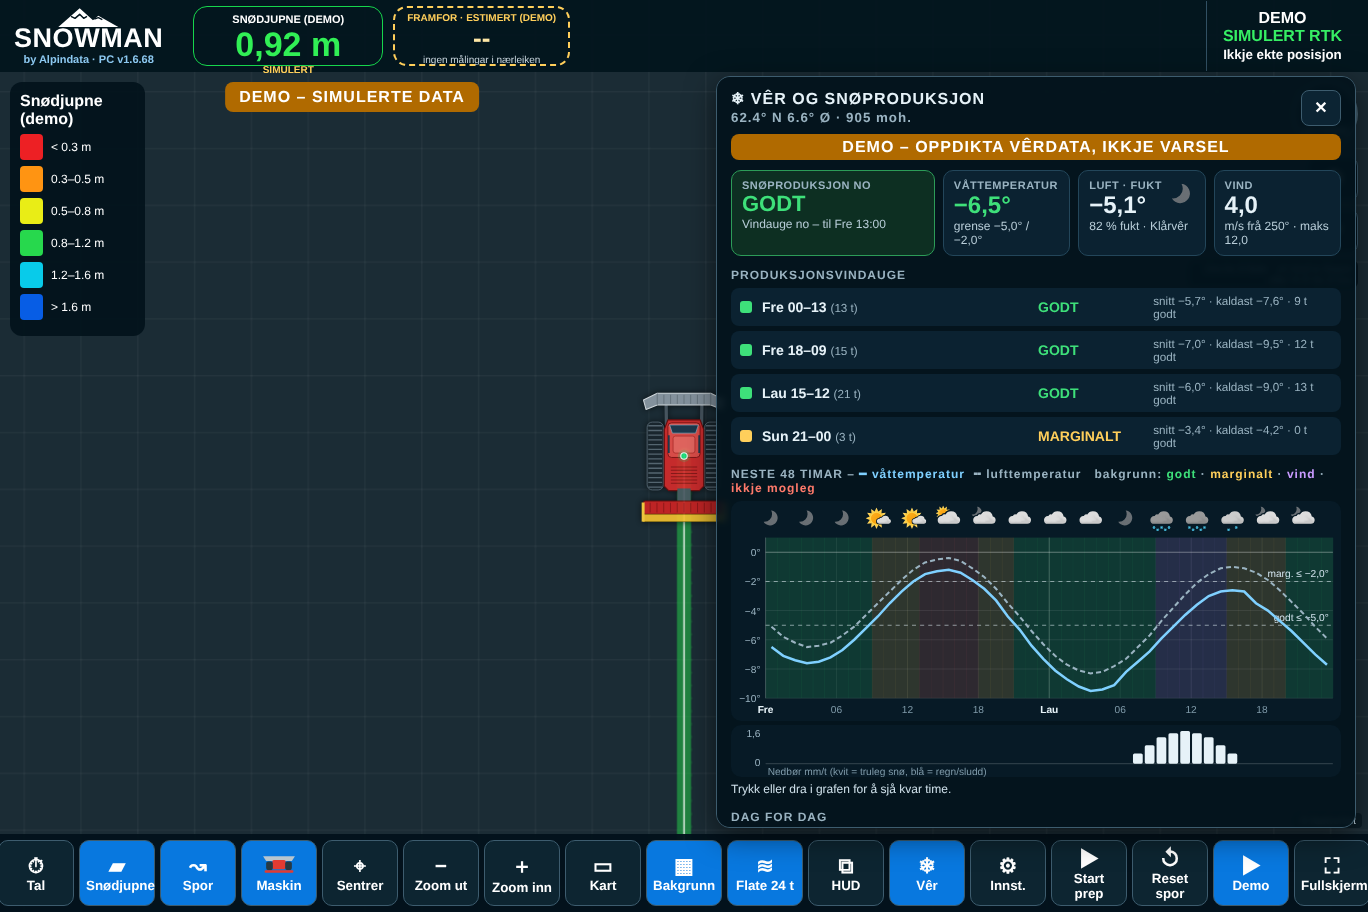
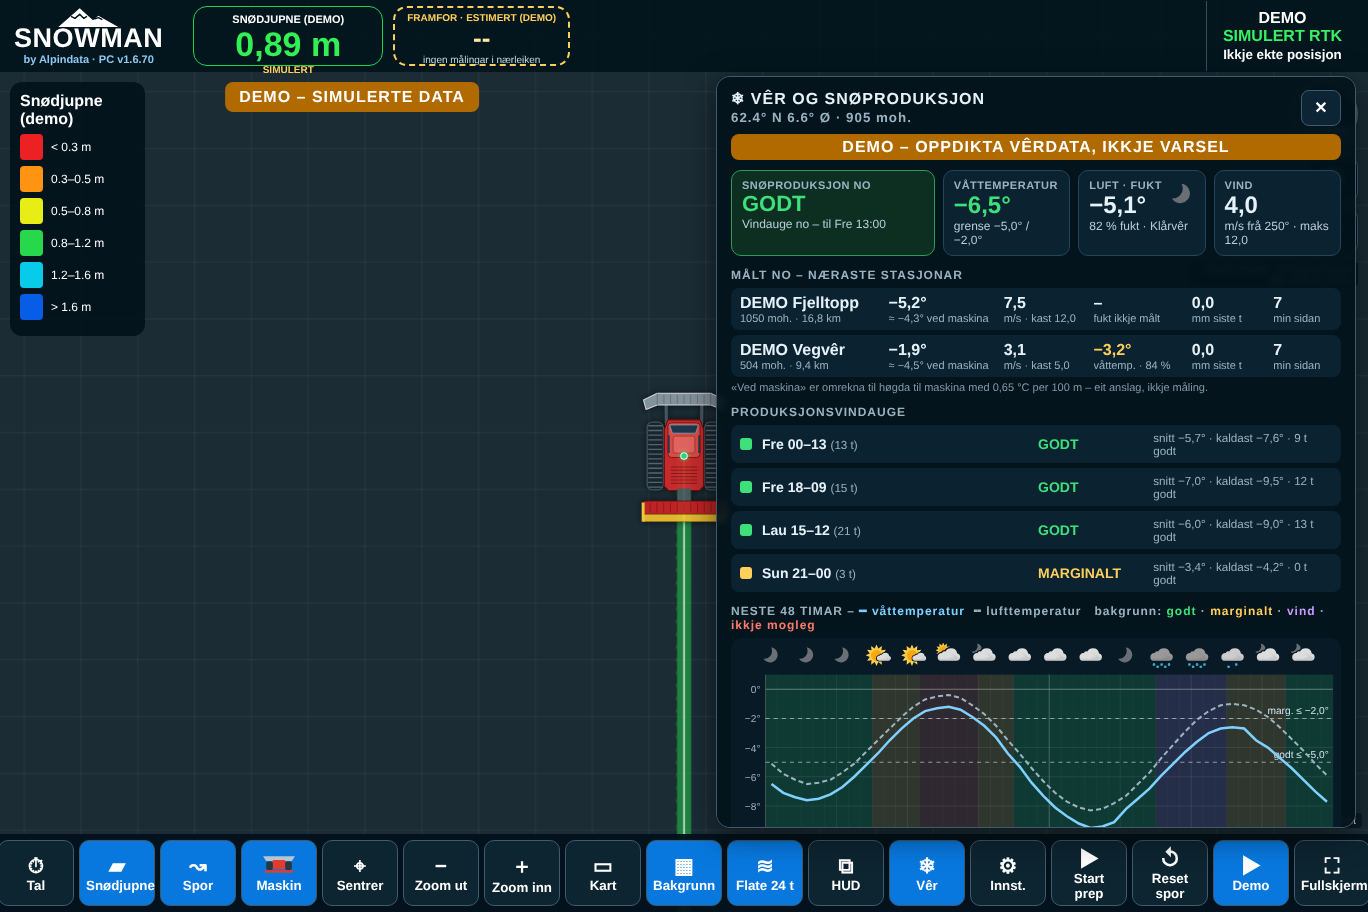
v1.6.70: «MÅLT NO» i Vêr – målingar frå næraste vêrstasjonar (MET Frost)
Næraste stasjonar etter GPS, siste målingar med alder, temperatur omrekna
til høgda til maskina, våttemperatur der luftfukt blir målt, offline-lagring.
Frost klient-ID ligg i koden etter avgjerd frå eigaren (berre opne data).

Claude-Session: https://claude.ai/code/session_01Y9foSCuQG9UZd4gvKsU3Cj

diff --git a/pc/v1.6/driver.html b/pc/v1.6/driver.html
@@ -819,6 +819,42 @@
         overflow: hidden;
         text-overflow: ellipsis;
       }
+      #wx .wxObsL {
+        display: flex;
+        flex-direction: column;
+        gap: 5px;
+      }
+      #wx .wxObs {
+        display: grid;
+        grid-template-columns: 1.7fr 1.3fr 1fr 1.1fr 0.9fr 0.7fr;
+        gap: 6px;
+        background: #0b2231;
+        border-radius: 8px;
+        padding: 6px 9px;
+        align-items: center;
+      }
+      #wx .wxObs b {
+        display: block;
+        font-size: 16px;
+      }
+      #wx .wxObs small {
+        display: block;
+        font-size: 11px;
+        color: #9ab3c1;
+        white-space: nowrap;
+        overflow: hidden;
+        text-overflow: ellipsis;
+      }
+      #wx .wxObsN,
+      #wx .wxObsNo {
+        font-size: 11px;
+        color: #7f9aa9;
+        margin-top: 4px;
+      }
+      #wx .wxObsNo {
+        font-size: 12px;
+        color: #ffd27a;
+      }
       #wx .wxBar span {
         display: block;
         height: 100%;
@@ -2127,7 +2163,7 @@
     <script src="tastatur.js"></script>
     <script>
       // Versjonsnummeret som er i bruk – éin stad, vist under logoen, i tittelen og under Innst. › Maskin
-      const APP_VERSION = "1.6.69";
+      const APP_VERSION = "1.6.70";
       document.title = "SNOWMAN PC v" + APP_VERSION;
       document.getElementById("brandVer").textContent = "PC v" + APP_VERSION;
       document.querySelectorAll(".appVer").forEach((e, i) => (e.textContent = (i ? "" : "PC v") + APP_VERSION));
@@ -6532,6 +6568,7 @@
       const WX = (() => {
         let open = false,
           R = null,
+          O = null,
           timer = null,
           busy = false,
           hoverI = null;
@@ -6549,7 +6586,9 @@
             let L = lim(),
               q = "demo=" + (demo ? 1 : 0) + "&good=" + L.good + "&marg=" + L.marg + "&wind=" + L.wind;
             if (pos) q += "&lat=" + pos[0] + "&lon=" + pos[1];
-            R = await fetch("api/weather?" + q).then((x) => x.json());
+            let [a, b] = await Promise.all([fetch("api/weather?" + q).then((x) => x.json()), fetch("api/weather/obs?" + q).then((x) => x.json()).catch(() => null)]);
+            R = a;
+            O = b;
           } catch (e) {
             R = { ok: false, error: "Fekk ikkje kontakt med SNOWMAN-tenesta" };
           }
@@ -6627,7 +6666,7 @@
             return;
           }
           if (!R.ok) {
-            el.innerHTML = head() + `<div class="wxWarn">${esc(R.error)}</div><p style="color:#b8cdd8;font-size:13px">Vêrvarselet krev nett første gong. Etterpå blir siste varsel vist også utan nett. Alt anna i SNOWMAN fungerer som før.</p>${R.detail ? `<p style="color:#7f9aa9;font-size:11px">Teknisk: ${esc(R.detail)}</p>` : ""}` + foot();
+            el.innerHTML = head() + `<div class="wxWarn">${esc(R.error)}</div><p style="color:#b8cdd8;font-size:13px">Vêrvarselet krev nett første gong. Etterpå blir siste varsel vist også utan nett. Alt anna i SNOWMAN fungerer som før.</p>${R.detail ? `<p style="color:#7f9aa9;font-size:11px">Teknisk: ${esc(R.detail)}</p>` : ""}` + (O && O.ok && O.stations.length ? obsHtml() : "") + foot();
             return;
           }
           let H = R.hours.slice(0, 48),
@@ -6659,6 +6698,7 @@
               <div class="wxBox wxSymBox"><span>LUFT · FUKT</span>${h.sym ? `<img src="vendor/vaersymbol/${esc(h.sym)}.svg" alt="${esc(h.symText)}" title="${esc(h.symText)}">` : ""}<b>${n1(h.temp)}°</b><em>${Math.round(h.rh)} % fukt${h.symText ? " · " + esc(h.symText) : ""}</em></div>
               <div class="wxBox"><span>VIND</span><b>${n1(h.wind)}</b><em>m/s${h.dir != null ? " frå " + Math.round(h.dir) + "°" : ""} · maks ${n1(L.wind)}</em></div>
             </div>
+            ${obsHtml()}
             <h4>PRODUKSJONSVINDAUGE</h4><div class="wxWin">${win}</div>
             <h4>NESTE 48 TIMAR – <span style="color:#7fd0ff">━ våttemperatur</span> &nbsp;<span style="color:#9ab3c1">╍ lufttemperatur</span> &nbsp; bakgrunn: <span class="c-godt">godt</span> · <span class="c-marg">marginalt</span> · <span class="c-vind">vind</span> · <span class="c-nei">ikkje mogleg</span></h4>
             <div id="wxCh" style="touch-action:none">${chart(H)}</div>
@@ -6696,13 +6736,33 @@
             })
           );
         }
+        // «MÅLT NO»: siste målingar frå dei næraste stasjonane (MET Frost), side om side med varselet
+        function obsHtml() {
+          if (!O) return "";
+          if (!O.ok || !O.stations.length)
+            return `<h4>MÅLT NO – NÆRASTE STASJONAR</h4><div class="wxObsNo">${esc(O.error || "Ingen stasjonar med ferske målingar i nærleiken.")}</div>`;
+          let rows = O.stations
+            .map((x) => {
+              let gam = x.age_min != null && x.age_min > 90;
+              return `<div class="wxObs">
+                <span><b>${esc(x.name)}</b><small>${x.masl != null ? x.masl + " moh." : ""}${x.km != null ? " · " + n1(x.km) + " km" : ""}</small></span>
+                <span><b>${n1(x.temp)}°</b><small>${x.tempAtMachine != null ? "≈ " + n1(x.tempAtMachine) + "° ved maskina" : "luft"}</small></span>
+                <span><b>${x.wind != null ? n1(x.wind) : "–"}</b><small>m/s${x.gust != null ? " · kast " + n1(x.gust) : ""}</small></span>
+                <span><b${x.tw != null ? ' class="c-' + (x.tw <= lim().good ? "godt" : x.tw <= lim().marg ? "marg" : "nei") + '"' : ""}>${x.tw != null ? n1(x.tw) + "°" : x.rh != null ? Math.round(x.rh) + " %" : "–"}</b><small>${x.tw != null ? "våttemp. · " + Math.round(x.rh) + " %" : "fukt ikkje målt"}</small></span>
+                <span><b>${x.precip != null ? n1(x.precip) : "–"}</b><small>mm siste t${x.snow != null ? " · snø " + Math.round(x.snow) + " cm" : ""}</small></span>
+                <span class="${gam ? "c-marg" : ""}"><b>${x.age_min != null ? x.age_min : "–"}</b><small>min sidan</small></span>
+              </div>`;
+            })
+            .join("");
+          return `<h4>MÅLT NO – NÆRASTE STASJONAR${O.offline ? ' <span class="c-marg">· utan nett, lagra målingar</span>' : ""}</h4><div class="wxObsL">${rows}</div><div class="wxObsN">«Ved maskina» er omrekna til høgda til maskina med 0,65 °C per 100 m – eit anslag, ikkje måling.</div>`;
+        }
         function head() {
           let p = R && R.ok ? `${n1(R.lat).replace(",", ".")}° N ${n1(R.lon).replace(",", ".")}° Ø${R.alt != null ? " · " + R.alt + " moh." : ""}` : "";
           let a = R && R.ok && !R.demo ? ` · oppdatert for ${R.age_min} min sidan` : "";
           return `<div class="wxHead"><h3>❄ VÊR OG SNØPRODUKSJON<br><small>${p}${a}</small></h3><button class="wxX" onclick="WX.toggle()" title="Lukk (eller trykk Vêr-knappen igjen)">✕</button></div>`;
         }
         function foot() {
-          return `<div class="wxFoot">${R && R.demo ? "Oppdikta demo-data til visning." : esc((R && R.attr) || "Data frå MET Norway (CC BY 4.0)") + " · Locationforecast for staden og høgda til maskina."} ${esc((R && R.iconAttr) || "Vêrsymbol: MET Norway / Yr (MIT-lisens)")}. Våttemperatur etter Stull (2011). Varsel – ikkje måling. Grensene varierer med kanon og vasstemperatur.</div>`;
+          return `<div class="wxFoot">${R && R.demo ? "Oppdikta demo-data til visning." : esc((R && R.attr) || "Data frå MET Norway (CC BY 4.0)") + " · Locationforecast for staden og høgda til maskina."} ${esc((R && R.iconAttr) || "Vêrsymbol: MET Norway / Yr (MIT-lisens)")}. Målingar: MET Frost (CC BY 4.0). Våttemperatur etter Stull (2011). Varsel – ikkje måling. Grensene varierer med kanon og vasstemperatur.</div>`;
         }
         function toggle() {
           open = !open;

diff --git a/pc/v1.6/frost.py b/pc/v1.6/frost.py
@@ -1,0 +1,181 @@
+# SNOWMAN by Alpindata – Copyright © 2026 Hans Petter Brunstad Sørensen (Alpindata). Alle rettar reserverte. Sjå LICENSE.
+"""Målingar frå næraste vêrstasjonar (MET Frost) til vêr-overlayet («MÅLT NO»).
+
+Frost: https://frost.met.no – opne observasjonar frå MET og samarbeidspartnarar (m.a. vegvêrstasjonar).
+Lisens for data: CC BY 4.0 («Data frå MET Norway»). Kvar førespurnad blir sendd med klient-ID som brukarnamn
+(HTTP basic auth, tomt passord). Client secret trengst ikkje for opne data og blir ikkje brukt.
+
+Klient-ID: SNOWMAN har ein innebygd ID (eigaren si avgjerd 2026-10-09: ID-en gir berre tilgang til opne data).
+Eit anlegg kan bruke sin eigen ved å setje "frost_client_id" i snowman-config.local.json.
+
+Stasjonsval: dei næraste stasjonane frå GPS-posisjonen (Frost «nearest»), eller ein fast liste ("frost_stations",
+t.d. "SN60190,SN60225"). Berre stasjonar som faktisk har ferske målingar blir viste.
+Offline først: stasjonslista blir lagra i 7 dagar og siste målingar i data/frost-cache.json og vist med alder.
+"""
+import base64, calendar, json, math, threading, time, urllib.error, urllib.parse, urllib.request
+
+BASE = "https://frost.met.no"
+CLIENT_ID = "ca39bc1b-eb35-4c23-acbd-1956b4a2d1cd"   # SNOWMAN (Alpindata) – berre opne data
+LAPSE = 0.0065
+ELEMENTS = ["air_temperature", "relative_humidity", "wind_speed", "wind_from_direction",
+            "max(wind_speed_of_gust PT1H)", "sum(precipitation_amount PT1H)", "surface_snow_thickness"]
+BASIC = ["air_temperature", "wind_speed", "sum(precipitation_amount PT1H)"]
+KEYS = {"air_temperature": "temp", "relative_humidity": "rh", "wind_speed": "wind", "wind_from_direction": "dir",
+        "max(wind_speed_of_gust PT1H)": "gust", "sum(precipitation_amount PT1H)": "precip", "surface_snow_thickness": "snow"}
+OBS_TTL = 600        # sekund: nye målingar kjem typisk kvar 10. min – 1 t
+SRC_TTL = 7 * 86400  # stasjonslista endrar seg sjeldan
+
+
+def dist_km(a, b, c, d):
+    p = math.pi / 180
+    h = math.sin((c - a) * p / 2) ** 2 + math.cos(a * p) * math.cos(c * p) * math.sin((d - b) * p / 2) ** 2
+    return 12742 * math.asin(math.sqrt(h))
+
+
+def _iso(s):
+    return calendar.timegm(time.strptime(s[:19], "%Y-%m-%dT%H:%M:%S"))
+
+
+class Frost:
+    def __init__(self, cache_path, version="1.6", client_id=None):
+        self.path = cache_path
+        self.cid = client_id or CLIENT_ID
+        self.ua = f"SNOWMAN/{version} (Alpindata snoproduksjon; https://github.com/Snowman6230)"
+        self.lock = threading.Lock()
+        try:
+            self.cache = json.loads(cache_path.read_text("utf-8"))
+        except Exception:
+            self.cache = {}
+
+    def _get(self, path, params):
+        url = BASE + path + "?" + urllib.parse.urlencode(params, safe="(),: ")
+        auth = base64.b64encode((self.cid + ":").encode()).decode()
+        req = urllib.request.Request(url, headers={"User-Agent": self.ua, "Authorization": "Basic " + auth})
+        with urllib.request.urlopen(req, timeout=10) as r:
+            return json.loads(r.read().decode("utf-8"))
+
+    def _save(self):
+        try:
+            tmp = self.path.with_suffix(".tmp"); tmp.write_text(json.dumps(self.cache), "utf-8"); tmp.replace(self.path)
+        except Exception:
+            pass
+
+    def sources(self, lat, lon, fixed=None):
+        """Stasjonar (id, namn, høgd, koordinatar, avstand), næraste først."""
+        key = "fixed:" + fixed if fixed else f"near:{lat:.2f},{lon:.2f}"
+        c = self.cache.get("src", {})
+        if c.get("key") == key and time.time() - c.get("t", 0) < SRC_TTL:
+            out = c["list"]
+        else:
+            p = {"types": "SensorSystem", "fields": "id,name,masl,geometry"}
+            if fixed:
+                p["ids"] = fixed
+            else:
+                p.update(geometry=f"nearest(POINT({lon:.4f} {lat:.4f}))", nearestmaxcount=8)
+            js = self._get("/sources/v0.jsonld", p)
+            out = []
+            for s in js.get("data", []):
+                co = (s.get("geometry") or {}).get("coordinates") or [None, None]
+                nm = s.get("name") or s["id"]
+                if nm.isupper():
+                    nm = nm.title()          # Frost skriv namna med store bokstavar: «FV60 STRANDAFJELLET» → «Fv60 Strandafjellet»
+                out.append({"id": s["id"], "name": nm, "masl": s.get("masl"), "lat": co[1], "lon": co[0]})
+            with self.lock:
+                self.cache["src"] = {"key": key, "t": time.time(), "list": out}
+                self._save()
+        for s in out:
+            s["km"] = round(dist_km(lat, lon, s["lat"], s["lon"]), 1) if s["lat"] is not None else None
+        return sorted(out, key=lambda s: s["km"] if s["km"] is not None else 999)
+
+    def _latest(self, ids):
+        c = self.cache.get("obs", {})
+        if c.get("ids") == ids and time.time() - c.get("t", 0) < OBS_TTL:
+            return c["data"], c["t"]
+        data = None
+        for els in (ELEMENTS, ELEMENTS[:-1], BASIC):     # nokre stasjonar/element finst ikkje – prøv då med færre element
+            try:
+                data = self._get("/observations/v0.jsonld", {"sources": ids, "referencetime": "latest", "maxage": "PT6H",
+                                                            "elements": ",".join(els)}).get("data", [])
+                break
+            except urllib.error.HTTPError as e:
+                if e.code in (404, 412):   # ingen data for nokon av stasjonane
+                    data = []
+                    break
+                if e.code != 400 or els is BASIC:
+                    raise
+        with self.lock:
+            self.cache["obs"] = {"ids": ids, "t": time.time(), "data": data}
+            self._save()
+        return data, time.time()
+
+    def observations(self, lat, lon, alt=None, fixed=None, demo=False, now=None):
+        now = now or time.time()
+        res = {"ok": True, "demo": bool(demo), "attr": "Data frå MET Norway (CC BY 4.0) · Frost", "stations": []}
+        if demo:
+            res["stations"] = demo_stations(alt, now)
+            return res
+        err = None
+        try:
+            src = self.sources(lat, lon, fixed)
+            ids = ",".join(s["id"] for s in src[:8])
+            data, t = self._latest(ids)
+        except Exception as e:      # offline: siste lagra målingar
+            err = str(e)
+            src = self.cache.get("src", {}).get("list") or []
+            for s in src:
+                s["km"] = round(dist_km(lat, lon, s["lat"], s["lon"]), 1) if s.get("lat") is not None else None
+            data, t = self.cache.get("obs", {}).get("data"), self.cache.get("obs", {}).get("t", now)
+            if data is None:
+                return {"ok": False, "offline": True, "error": "Ingen stasjonsmålingar endå – SNOWMAN får ikkje kontakt med frost.met.no.",
+                        "detail": err, "stations": []}
+        res["offline"], res["fetched_min"] = err is not None, round((now - t) / 60)
+        by = {}
+        for d in data or []:
+            sid = d.get("sourceId", "").split(":")[0]
+            rt = _iso(d["referenceTime"]) if d.get("referenceTime") else None
+            for o in d.get("observations", []):
+                k = KEYS.get(o.get("elementId"))
+                if not k:
+                    continue
+                st = by.setdefault(sid, {"t": rt})
+                if k not in st or (rt or 0) >= st.get("_t_" + k, 0):
+                    st[k], st["_t_" + k] = o.get("value"), rt or 0
+                    st["t"] = max(st.get("t") or 0, rt or 0)
+        out = []
+        for s in sorted(src, key=lambda s: s["km"] if s.get("km") is not None else 999):
+            v = by.get(s["id"])
+            if not v or v.get("temp") is None and v.get("wind") is None:
+                continue
+            x = dict(s, **{k: v.get(k) for k in KEYS.values()})
+            x["age_min"] = round((now - v["t"]) / 60) if v.get("t") else None
+            if x.get("temp") is not None and alt is not None and s.get("masl") is not None:
+                x["tempAtMachine"] = round(x["temp"] + (s["masl"] - alt) * LAPSE, 1)   # omrekna med 0,65 °C/100 m
+            out.append(x)
+        res["stations"] = out[:3]
+        if err:
+            res["error"] = err
+        return res
+
+
+def demo_stations(alt, now):
+    """Oppdikta stasjonsmålingar til demo – namna er merkte DEMO."""
+    lh = time.localtime(now).tm_hour
+    base = -1.2 + 3.6 * math.cos(2 * math.pi * (lh - 15) / 24)
+    out = []
+    for name, masl, km, dt, w in (("DEMO Fjelltopp", 1050, 16.8, -1.5, 7.5), ("DEMO Vegvêr", 504, 9.4, 1.8, 3.1)):
+        t = round(base + dt, 1)
+        x = {"id": "DEMO", "name": name, "masl": masl, "km": km, "temp": t, "rh": 84 if masl < 900 else None, "wind": w,
+             "gust": round(w * 1.6, 1), "dir": 250, "precip": 0.0, "snow": None, "age_min": 7}
+        if alt is not None:
+            x["tempAtMachine"] = round(t + (masl - alt) * LAPSE, 1)
+        out.append(x)
+    return out
+
+
+if __name__ == "__main__":
+    import sys
+    from pathlib import Path
+    import tempfile
+    F = Frost(Path(tempfile.mkdtemp()) / "f.json")
+    r = F.observations(62.3905, 6.5810, 640, demo="--demo" in sys.argv)
+    print(json.dumps(r, ensure_ascii=False, indent=1)[:1500])

diff --git a/pc/v1.6/snowman_pc.py b/pc/v1.6/snowman_pc.py
@@ -12,7 +12,7 @@ No third-party packages required for the core service.
 Windows COM ports are supported through a tiny PowerShell serial bridge if pyserial
 is not installed; installing pyserial is recommended for reliable binary RTCM.
 """
-VERSION="1.6.69"   # versjonen som er i bruk (same som APP_VERSION i driver.html)
+VERSION="1.6.70"   # versjonen som er i bruk (same som APP_VERSION i driver.html)
 import sys
 import argparse, base64, json, math, os, re, socket, threading, time, http.server, urllib.parse, urllib.request
 from pathlib import Path
@@ -27,6 +27,8 @@ import snoflate as SF
 SURF=SF.SnowSurface(DATA/"snoflate.json")   # snøflateminne: målt snøoverflate, til estimat framfor maskina
 import ver as VER
 WX=VER.Weather(DATA/"ver-cache.json",VERSION)   # vêr og snøproduksjon (MET Locationforecast), lagra for bruk utan nett
+import frost as FR
+FROST=FR.Frost(DATA/"frost-cache.json",VERSION)  # målingar frå næraste vêrstasjonar (MET Frost) – «MÅLT NO» i Vêr
 import kontroll as K
 import helling as HL
 HEL=HL.Helling()   # hellingskorreksjon: antenna står ikkje rett over beltet når maskina står på skrå
@@ -108,7 +110,9 @@ CFG = {"serial_port":"","baud":115200,"caster":"","caster_port":2101,"mountpoint
        "antZ":2.8,"zOff":0.0,"heightMode":"nn2000","geoidN":None,"calibrated":False,
        "tiltMode":"auto","tiltFlipPitch":False,"tiltFlipRoll":False,
        "initCmds":"",   # oppstartskommandoar til mottakaren (éin per linje), sende når seriellporten blir opna
-       "hudLan":False}
+       "hudLan":False,
+       "frost_client_id":"",   # tomt = SNOWMAN sin innebygde Frost-ID (berre opne data); eit anlegg kan setje sin eigen
+       "frost_stations":""}    # tomt = næraste stasjonar etter GPS; elles t.d. "SN60190,SN60225"
 def load_cfg():
     try: CFG.update({k:v for k,v in json.loads(CFG_FILE.read_text("utf-8")).items() if k in CFG})
     except FileNotFoundError: pass
@@ -547,6 +551,26 @@ class API(http.server.BaseHTTPRequestHandler):
                     if alt is None: alt=STATE.get("altitude")
                     r=WX.forecast(lat,lon,alt,{"good":f("good"),"marg":f("marg"),"wind":f("wind")},demo=demo)
             except Exception as e: r={"ok":False,"error":str(e)}
+            self.headers_ok(); self.wfile.write(json.dumps(r).encode()); return
+        if u.path=="/api/weather/obs":   # «MÅLT NO» i Vêr: siste målingar frå næraste vêrstasjonar (MET Frost), eller DEMO
+            q=urllib.parse.parse_qs(u.query)
+            f=lambda k,d=None: float(q[k][0]) if k in q and q[k][0] not in ("","null","undefined") else d
+            try:
+                FROST.cid=(CFG.get("frost_client_id") or "").strip() or FR.CLIENT_ID
+                lat,lon=f("lat",STATE.get("lat")),f("lon",STATE.get("lon")); demo=q.get("demo",["0"])[0]=="1"
+                if demo and lat is None: lat,lon=62.3905,6.5810
+                if lat is None or lon is None: r={"ok":False,"error":"Ingen posisjon frå GNSS endå.","stations":[]}
+                else:
+                    alt=f("alt")
+                    if alt is None:
+                        try: alt=TERR.height(lat,lon) if T.AVAILABLE else None
+                        except Exception: alt=None
+                    if alt is None: alt=STATE.get("altitude")
+                    fixed=re.sub(r"[^A-Za-z0-9,]","",CFG.get("frost_stations") or "") or None
+                    r=FROST.observations(lat,lon,alt,fixed,demo=demo); r["alt"]=None if alt is None else round(alt)
+                    for st in r.get("stations",[]):   # våttemperatur der stasjonen måler luftfukt
+                        if st.get("temp") is not None and st.get("rh") is not None: st["tw"]=round(VER.wetbulb(st["temp"],st["rh"]),1)
+            except Exception as e: r={"ok":False,"error":str(e),"stations":[]}
             self.headers_ok(); self.wfile.write(json.dumps(r).encode()); return
         if u.path=="/api/history/coverage":   # trakka område i ein periode eller for éi økt (Historikk › TRAKKA OMRÅDE)
             q=urllib.parse.parse_qs(u.query); per=q.get("period",["day"])[0]; now=time.time()

diff --git a/ENDRINGSLOGG.md b/ENDRINGSLOGG.md
@@ -9,6 +9,25 @@ Merke: **Nytt** · **Endra** · **Retta** · **Fjerna** · **Avgjerd** (val som 
 
 ## 2026-10-09
 
+### PC-prototype v1.6.70 – «MÅLT NO» i Vêr: målingar frå næraste vêrstasjonar (MET Frost)
+- **Nytt:** `frost.py` hentar siste målingar frå dei næraste stasjonane (Frost «nearest» frå GPS-posisjonen, maks 3 med
+  ferske data): temperatur, vind og kast, luftfukt, nedbør siste time og snødjupne der stasjonen måler det. Nytt
+  endepunkt `/api/weather/obs`.
+- **Nytt:** vêr-overlayet har fått delen **«MÅLT NO – NÆRASTE STASJONAR»** med namn, høgd, avstand, målingar og alder.
+  Temperaturen blir også omrekna til høgda til maskina (0,65 °C/100 m, merkt som anslag), og våttemperatur blir rekna ut
+  der stasjonen måler luftfukt. Målingane blir viste også når varselet manglar.
+- **Nytt:** offline først – stasjonslista blir lagra i 7 dagar og siste målingar i `data/frost-cache.json`, vist med
+  merknad når nettet manglar. Nye målingar blir henta høgst kvar 10. min.
+- **Nytt:** `snowman-config.local.json` kan ha `frost_client_id` (eige anlegg sin ID) og `frost_stations`
+  (fast liste, t.d. `SN60190,SN60225`). Tomt = innebygd ID og næraste stasjonar.
+- **Avgjerd (eigaren):** SNOWMAN sin Frost **klient-ID ligg i koden** (`frost.py`). Eigaren: «Det er ingen fare med det» –
+  ID-en gir berre tilgang til opne data. **Client secret blir ikkje brukt og ligg ikkje i repoet.** Andre anlegg bør få
+  eigen ID seinare, så ikkje alle deler éin.
+- **Kvifor:** eigaren registrerte ein Frost-ID og ville ha han brukt i SNOWMAN.
+- **Testa:** mot ei lokal testteneste som svarar som Frost (stasjonsoppslag, siste målingar, færre element ved feil 400,
+  lagring og offline), i demo og med `simuler-leica.py`. Frost er ikkje nåbar frå testmaskina, så første test mot ekte
+  Frost blir på maskin-PC-en. Ingen JavaScript-feil.
+
 ### PC-prototype v1.6.69 – vêrsymbol i vêr-overlayet
 - **Nytt:** vêrsymbola til MET (same `symbol_code` som i varselet) blir viste kvar 3. time over 48-timarsgrafen, i
   boksen «Luft · fukt» for timen no, ved kvar dag i «Dag for dag» og i avlesinga når ein trykkjer i grafen – med nynorsk

diff --git a/docs/VEGEN-VIDARE.md b/docs/VEGEN-VIDARE.md
@@ -230,8 +230,8 @@ feilkodar og temperaturar i feltloggen.
 48 t-graf, dag for dag, innstillbare grenser, offline-lagring, DEMO-merking). Skjermbilete: `prototypar/ver/`.
 
 **Neste steg (ikkje plassert i vegplanen)**
-1. **Observasjonar frå næraste stasjon (MET Frost):** krev gratis klient-ID, lagra lokalt som NTRIP-passordet (aldri i
-   repoet). SNOWMAN vel stasjonar etter GPS (avstand og høgdeskilnad) og lagrar valet i stadprofilen. For Fjellsætra
+1. **Observasjonar frå næraste stasjon (MET Frost):** prototype i v1.6.70 («MÅLT NO»). Klient-ID ligg i koden etter
+   avgjerd frå eigaren (berre opne data); eige anlegg kan setje `frost_client_id` lokalt. SNOWMAN vel stasjonar etter GPS (avstand og høgdeskilnad) og lagrar valet i stadprofilen. For Fjellsætra
    (funne 2026-10-09; yr-id «5-NNNNN» svarar til MET-stasjon SNNNNNN – stadfest i Frost med klient-ID):
    - **Roaldshornet (truleg SN60190)**, ca. 1050 moh., 62,3065 N 6,8490 Ø (ca. 17 km frå Fjellsætra): temperatur og vind
      (også kast). Best for høgfjellstemperatur og vind.
